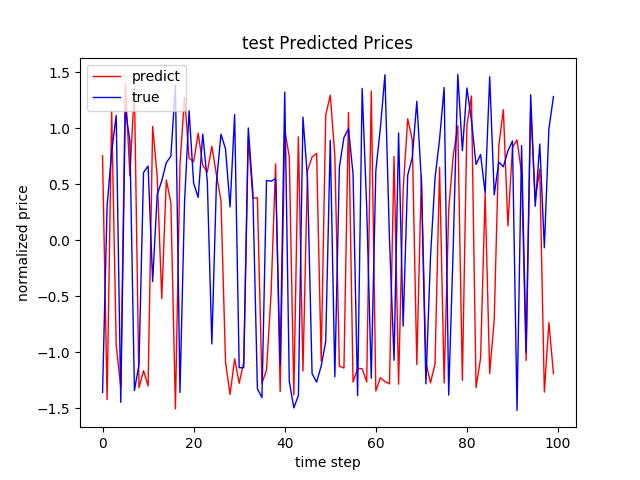
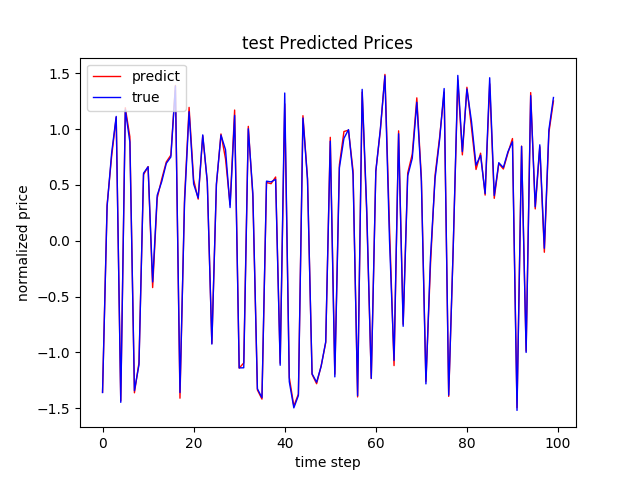
minor changes

diff --git a/v3/utilityV3/utils.py b/v3/utilityV3/utils.py
@@ -1,0 +1,68 @@
+import numpy as np
+import matplotlib.pyplot as plt
+import os
+import pandas as pd
+from sklearn.model_selection import train_test_split
+from sklearn.preprocessing import normalize as norm2
+
+def read_data(filename, ticker):
+    data = pd.read_csv(os.path.abspath(os.path.join(os.path.dirname(__file__), '..', '..', 'data', filename)))
+    if ticker:
+        data = data[data['ticker'] == ticker]
+    data['timestamp'] = pd.to_datetime(data.timestamp)
+    data = data[['high', 'low', 'price', 'volume', 'timestamp']].sort_values(by='timestamp')
+    data = data.set_index('timestamp')
+    return data
+
+def normalize(data):
+    """
+    axis = 1, along each column, mean of all rows
+    axis = 0, along each row, mean of all cols
+    """
+    return (data - np.mean(data, axis=0, keepdims=True)) / np.sqrt(np.var(data, axis=0, dtype=np.float64, keepdims=True))
+
+
+def generate_datasets(data):
+    # price, high, low, volume at time N are the x-vars
+    # price at time N + 1 is the y-var
+    X = data[['price', 'high', 'low', 'volume']][0: -1]
+    Y = data[['price']][1:]
+    X = (X.values)
+    Y = (Y.values)
+    assert (X.shape[0] == Y.shape[0])  # number of samples match
+    assert (X.shape[1] == 4)
+    assert (Y.shape[1] == 1)
+
+#     X = normalize(X)
+#     Y = normalize(Y)
+
+    X = norm2(X, axis=0) # Currently disabled
+    Y = norm2(Y, axis=0) # # Currently disabled
+
+
+    X_train, X_test, Y_train, Y_test = train_test_split(
+        X, Y, test_size=0.33, random_state=42)
+
+    # Due to the differences between Keras and the hand-coded forward/backward prop implementations
+    # the orientation of the data is different. shape = (row, col), where row = # samples, col = # features
+    # Therefore, transposition is not necessary
+    # X_train = X_train.T
+    # X_test = X_test.T
+    # Y_train = Y_train.T
+    # Y_test = Y_test.T
+
+    return X_train, X_test, Y_train, Y_test
+
+def evaluate_result(pred, x, y, model, mode):
+    accuracy = model.evaluate(x, y, batch_size=8)
+
+    plt.plot(np.squeeze(pred)[0:100], marker=None,
+            color='red', markersize=1, linewidth=1)
+    plt.plot(np.squeeze(y)[0:100], marker=None,
+            color='blue', markersize=1, linewidth=1)
+    plt.ylabel('normalized price')
+    plt.xlabel('time step')
+    plt.title(mode + " Predicted Prices")
+    plt.legend(['predict', 'true'], loc='upper left')
+    plt.show()
+    return accuracy

diff --git a/v3/main.py b/v3/main.py
@@ -1,0 +1,37 @@
+from keras.models import Sequential
+from keras.layers import Dense, Activation
+from keras.optimizers import SGD, Adagrad
+from keras.regularizers import l2
+from utilityV3.utils import read_data, generate_datasets, evaluate_result
+from sklearn.preprocessing import normalize
+import pandas as pd
+import matplotlib.pyplot as plt
+import numpy as np
+
+"""
+This version 3 will attempt to use keras to create a multi-layer neural network
+to predict the next price of a particular cryptocurrency given the current
+price, volume, high price, low price of a given timestep
+"""
+
+data = read_data('crypto-test-data-82hrs.csv', 'ETHBTC')
+
+X_train, X_test, Y_train, Y_test = generate_datasets(data)
+
+print('X_train shape: ' + str(X_train.shape))
+print('X_test shape: ' + str(X_test.shape))
+print('Y_train shape: ' + str(Y_train.shape))
+
+model = Sequential()
+model.add(Dense(16, input_dim=X_train.shape[1], activation='relu', kernel_regularizer=l2(0.01)))
+model.add(Dense(6, activation='relu', kernel_regularizer=l2(0.01)))
+model.add(Dense(Y_train.shape[1]))
+model.compile(optimizer=Adagrad(lr=0.01), loss='mse') # Adam
+
+model.fit(X_train, Y_train, epochs=100, batch_size=32)
+
+y_hat_train = model.predict(X_train, batch_size=32)
+evaluate_result(y_hat_train, X_train, Y_train, model, 'train')
+
+y_hat_test = model.predict(X_test, batch_size=32)
+evaluate_result(y_hat_test, X_test, Y_test, model, 'test')

diff --git a/v2/main.py b/v2/main.py
@@ -1,7 +1,7 @@
 from keras.models import Sequential
 from keras.layers import Dense, Activation
 from keras.optimizers import SGD, Adagrad
-from utility.utils import read_data, generate_datasets, evaluate_result
+from utilityV2.utils import read_data, generate_datasets, evaluate_result
 from sklearn.preprocessing import normalize
 import pandas as pd
 import matplotlib.pyplot as plt
@@ -39,5 +39,5 @@ model.fit(X_train, Y_train, epochs=6000, batch_size=X_train.shape[0]) # Currentl
 y_hat_train = model.predict(X_train, batch_size=X_train.shape[0])
 evaluate_result(y_hat_train, X_train, Y_train, model, 'train')
 
-y_hat_test = model.predict(X_train, batch_size=X_train.shape[0])
+y_hat_test = model.predict(X_test, batch_size=X_test.shape[0])
 evaluate_result(y_hat_test, X_test, Y_test, model, 'test')

diff --git a/v2/utilityV2/utils.py b/v2/utilityV2/utils.py
@@ -31,8 +31,8 @@ def generate_datasets(data):
     X = normalize(X)
     Y = normalize(Y)
 
-    # X = norm2(X, axis=0) # Currently disabled
-    # Y = norm2(Y, axis=0) # # Currently disabled
+#     X = norm2(X, axis=0) # Currently disabled
+#     Y = norm2(Y, axis=0) # # Currently disabled
 
 
     X_train, X_test, Y_train, Y_test = train_test_split(

diff --git a/v1/main.py b/v1/main.py
@@ -1,5 +1,5 @@
 import pandas as pd
-from utility.utils import L_layer_model, predict, normalize, read_data, generate_datasets
+from utilityV1.utils import L_layer_model, predict, normalize, read_data, generate_datasets
     
 """
 This version 1 will attempt to use a hand-coded multi-layer neural network

diff --git a/README.md b/README.md
@@ -21,3 +21,6 @@ Sample Accuracy for predicting the price at the next timestamp (10-sec timestamp
 Keras-based Neural Network
 
 ![Img](https://raw.githubusercontent.com/workofart/work-trader/master/v2/trainingset.png)
+
+### Version 3
+Custom Neural Network with Reinforcement Learning (Deep Q Learning) using gym
